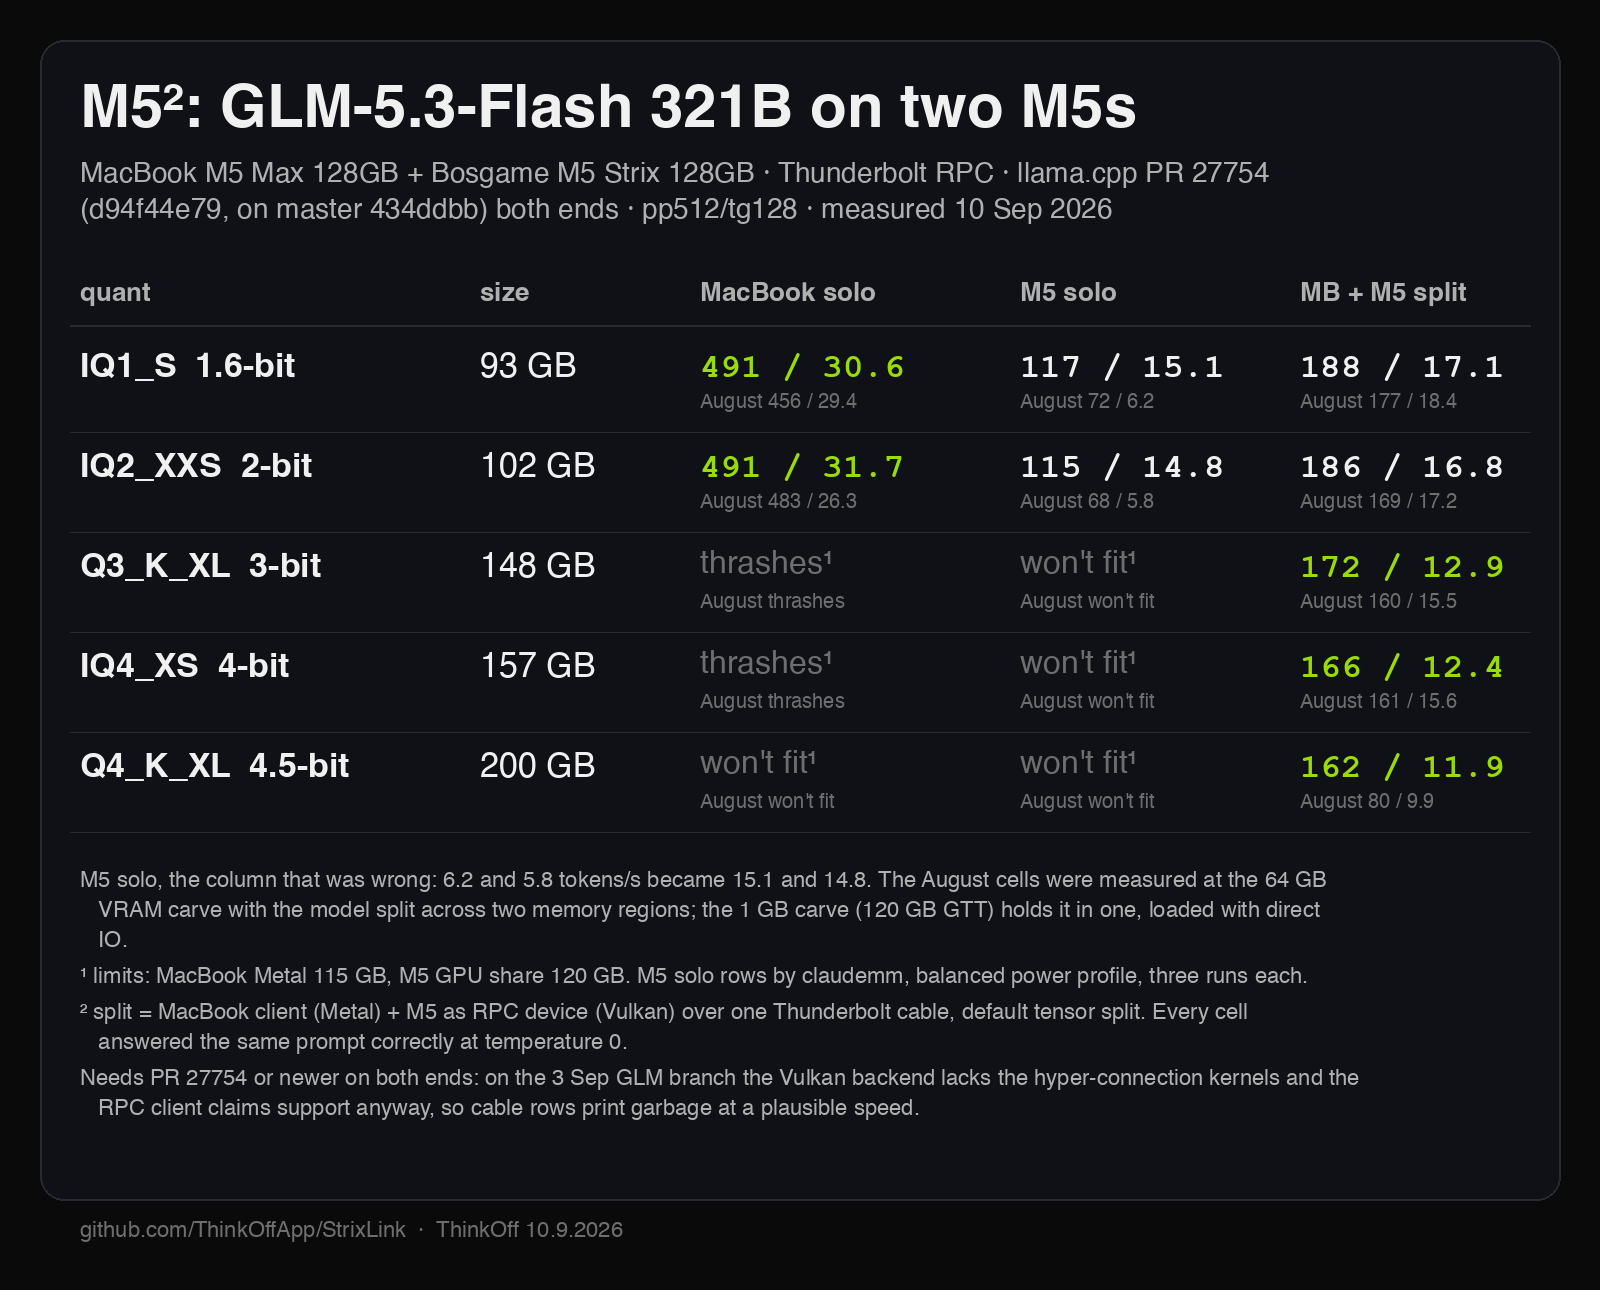
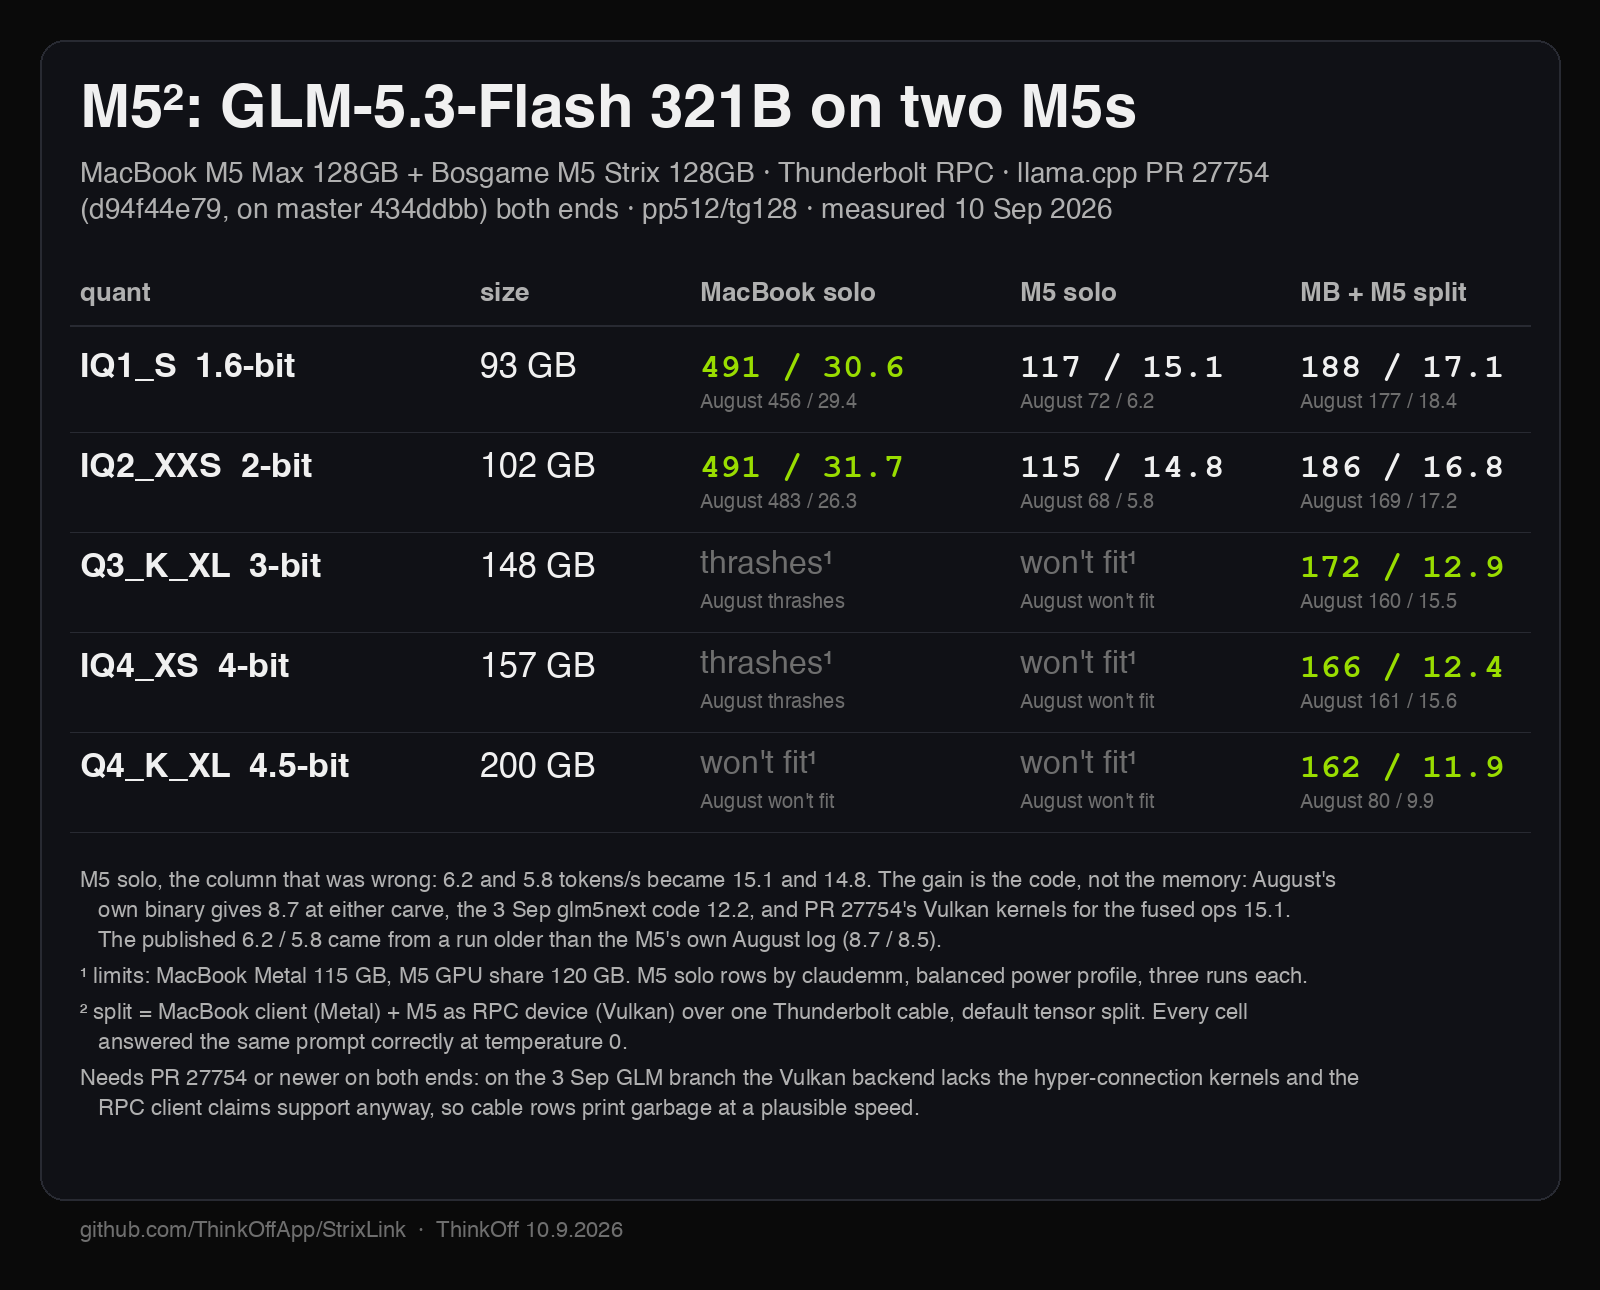
GLM table: the M5-solo gain is the build, not the carve (claudemm's f30bed8 control at the new carve)

Changed region(s): [[0.0625, 0.6512, 0.8438, 0.7442]]

diff --git a/README.md b/README.md
@@ -79,7 +79,7 @@ Same five quants, same three columns, every cell remeasured on one llama.cpp com
 | IQ4_XS | 157 GB | thrashes | won't fit | 166 / 12.4 (Aug 161 / 15.6) |
 | Q4_K_XL | 200 GB | won't fit | won't fit | 162 / 11.9 (Aug 80 / 9.9) |
 
-The M5-solo column was the wrong one in August: measured at the 64 GB carve with the model split across two memory regions. The 1 GB carve holds it in one, and the newer glm5next code with Vulkan kernels for the fused ops adds the rest.
+The M5-solo column was the wrong one in August, and the gain is the code, not the memory: August's own binary (f30bed8) gives 8.7 tokens/s at either carve (the published 6.2 / 5.8 came from a run older than the M5's own August log), the 3 September glm5next code 12.2, and PR 27754's Vulkan kernels for the fused ops 15.1. The 1 GB carve with direct-IO loading is what made the DeepSeek rows honest; for GLM both small files already fitted.
 
 One trap worth knowing before you split this model over RPC: on the 3 September GLM branch (PR 27752) the Vulkan backend has no kernels for the fused hyper-connection ops, and `ggml_backend_rpc_device_supports_op` answers "supported" for everything, so the client ships the fused ops to the Strix and every cable row prints garbage at a plausible speed. Alone, the Strix probes its device and falls back correctly. PR 27754 sits on a master that carries the Vulkan kernels (#26578) and is correct at full speed. Raw log with the isolations: [docs/measurements-2026-09-10-glm-raw.md](docs/measurements-2026-09-10-glm-raw.md).
 
